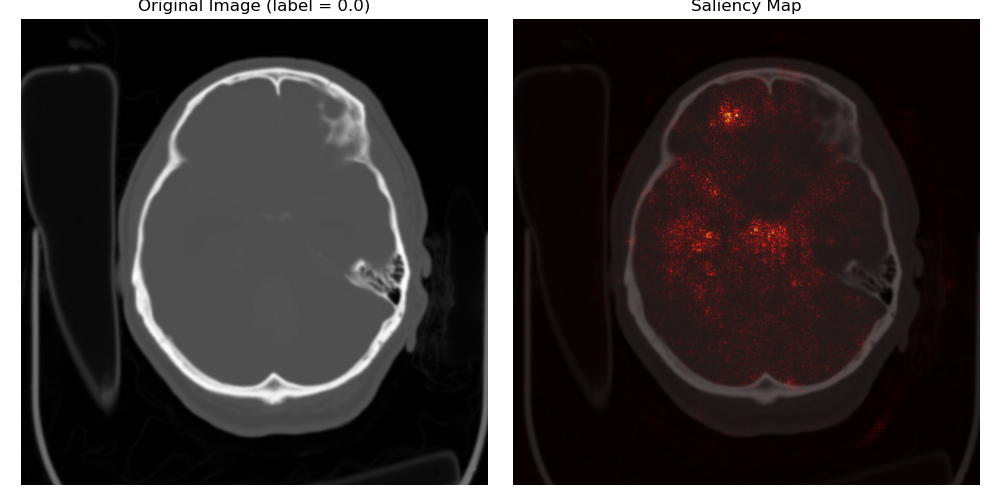
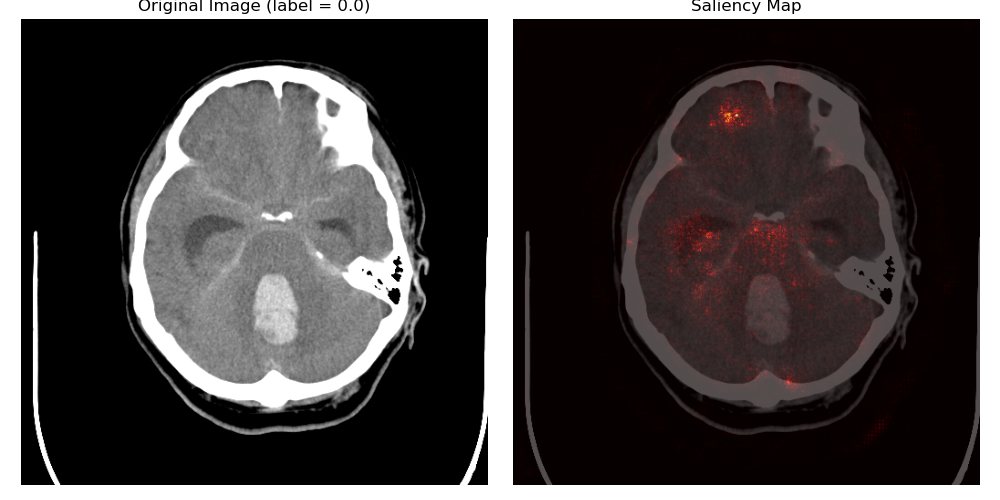
better visualizaion saliency

diff --git a/train.py b/train.py
@@ -229,7 +229,7 @@ class Model_extented(nn.Module):
                 index = np.random.randint(0, batch_size)
                 input_img = inputs[index].unsqueeze(0).float().to(self.device).detach().clone()
                 input_img.requires_grad = True
-                meta = meta[index].float().to(self.device)
+                meta = meta[index].unsqueeze(0).float().to(self.device)
 
                 output = self.forward(input_img, meta)
                 if self.num_classes==2:

diff --git a/dataloader.py b/dataloader.py
@@ -488,6 +488,9 @@ class RSNADataset(Dataset):
             image = cv2.resize(image, (512, 512))
 
         img_raw = image.copy().astype(np.float32)
+        window_center, window_width, intercept, slope = get_windowing(dataset)
+        img_raw = rescale_image(img_raw, intercept, slope)
+        img_raw = window_image(img_raw, window_center, window_width)
 
         if self.black_crop:
             try:
